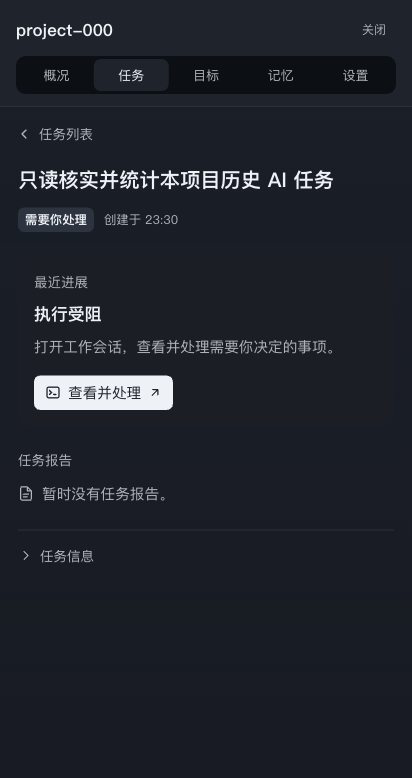
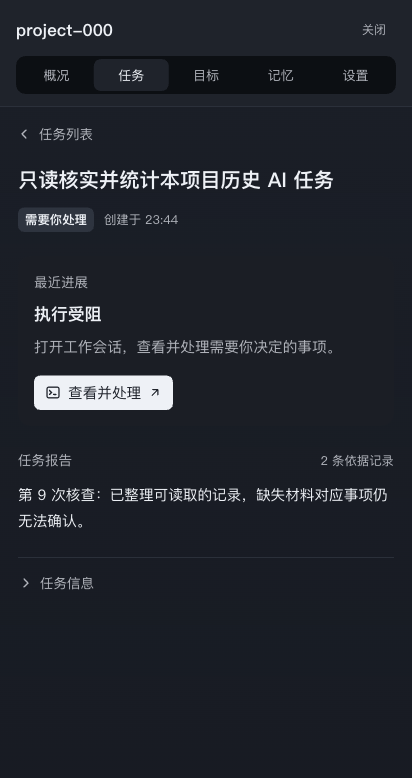
docs(design): verify live status and detail report presentation

diff --git a/playbook/v0.1.0/rc-task-detail.md b/playbook/v0.1.0/rc-task-detail.md
@@ -2,7 +2,7 @@
 
 创建时间：2026-10-05
 最后更新：2026-10-05
-状态：InReview（实现、本机、实机与推送完成；CI 触发状态待确认）
+状态：InReview（实现、本机、实机与推送完成；最终提交 CI 待完成）
 派单来源：负责人实测指出任务详情粗糙，原始字段和整行按钮抢占主界面。
 级别：C。分支：PeerAgent/pa/rc-task-detail；基线：开发线 7276b5e6。
 
@@ -21,6 +21,8 @@
 - apps/desktop/scripts/bot-shell-electron-smoke.mjs：在已有受控会话列表读取 seam 同步提供详情读取事实；原夹具只有列表而详情返回真实 NOT_FOUND，无法用于测试状态失效后的详情回退。只改隔离副本中的读投影替身，不改生产服务。
 
 不改 Runtime、协议、权限、Evidence、System Context、IPC、存储、依赖、版本或发布物。UI 图标全部复用 PeerIcon SVG。
+
+- 真实接口核对：列表投影没有报告，报告来自既有 `get(detail: report)`。详情由当前列表提供状态、同任务详情提供报告，状态变化时刷新报告；读取中、读取失败和已读空报告分开表达。任务切换不能混用报告，临时失败保留同任务此前报告并说明刷新失败；明确 NOT_FOUND 清除详情。
 
 ## 实现要点
 
@@ -53,9 +55,9 @@ RC7 任务详情的层级与操作修订，C 级。
 
 ### 分支与提交
 - 代码分支：PeerAgent/pa/rc-task-detail；基线：7276b5e6。
-- 提交：845be0f07fc027f0b25340fa7e73ae883e20a418。
+- 提交：bd06cda9ed717330ef416d2018978a3bbca4dcf5。
 - [代码 PR125](https://github.com/ly-ccx/Peer-Agent/pull/125)，目标 PeerAgent/dev/0.1.0。
-- 验收 tree：a34f252f8b6b47e5408185cb3f0efa080fb4e068，与提交 tree 一致。
+- 验收 tree：ca533c08e20236f0c80eb2fb048736dddc67fe08，与提交 tree 一致。
 
 ### 改了什么
 8 个文件，均在许可清单内：任务详情、纯显示投影及测试、详情样式、中英文文案、外层 Escape 让位、隔离原生夹具及交互检查。报告/依据不决定完成或签收；失效事实不保留旧的运行进展；内部引用原值保留，展示计数去重。
@@ -64,14 +66,16 @@ RC7 任务详情的层级与操作修订，C 级。
 实机复现了内层会话 Escape 连带关闭外层档案，扩入同一返回路径的两行修复。任务列表事实夹具原来没有相应详情读投影，补同源详情事实以测试失效回退。已在允许改动中记录，未移动运行时边界。返回门禁改为定位原任务行，避免新增隔离会话同时出现在历史分组时产生选择器歧义；未放宽旧检查。
 
 ### 验证
-- `node --test apps/desktop/renderer/src/project-agent/drawer/sessionDetailPresentation.test.ts`：新增 5/5 通过。覆盖所有状态中英文、报告不能改变签收、未知/失效事实、真实队列原因、缺失数据和引用去重。
+- `node --test apps/desktop/renderer/src/project-agent/drawer/sessionDetailPresentation.test.ts`：新增 7/7 通过。覆盖所有状态中英文、报告不能改变签收、未知/失效事实、真实队列原因、缺失数据和引用去重。
 - `pnpm --filter @peer-agent/desktop build`、`pnpm typecheck`、`pnpm architecture:check`、`git diff --check` 通过。
-- `pnpm --filter @peer-agent/desktop test`：5354 用例，5349 通过、5 个既有跳过、0 失败/取消；额外 i18n 检查 1/1 通过。
+- `pnpm --filter @peer-agent/desktop test`：5356 用例，5351 通过、5 个既有跳过、0 失败/取消；额外 i18n 检查 1/1 通过。
 - `pnpm --filter @peer-agent/desktop smoke:bots --streaming --accessibility --effort-stability --work-surfaces`：60 项壳/界面交互检查通过，0 页面错误、0 窗口授权错误；专属测试进程确认退出。
 - 新增实机检查：受阻/运行/待确认/签收/失败/取消/暂停/替代/启动/排队，事实读取失败、缺少会话、SVG 折叠与依据去重、键盘、同一会话打开、Escape/焦点恢复、返回原任务、深浅主题、760px 视口大字号、主操作悬停文字对比度至少 4.5:1。逐图复核发现初稿悬停引用了不存在的主题 token，已修复为 graphite-base-hover 并通过颜色门禁，最终图如上。
 - 本机材料：`$CODEX_HOME/visualizations/2026/10/05/rc-task-detail/`，含最终报告/trace/日志、截图、比较图与失败修正记录。原生报告 sourceDirty=true 如实保留（先验收再提交）；最终源 tree 与代码提交匹配。
-- GitHub 尚未产生本次 PR 的 CI 记录，正在确认触发状态；不把 PR124 的成功记录算作本次通过。
+- GitHub 已触发 PR CI；最终提交的双平台结果待完成，不把前一提交或 PR124 的成功记录算作本次通过。
 - 未验证真实模型、任务工具执行、复杂写任务的 Evidence 或全量读屏；受控认知和会话事实只用于验证界面、现有 IPC 入口、存储读取与导航。
+
+- 最后一次完整测试在依赖构建完成后顺序运行通过。此前误把 build 与测试同时启动，导致测试读取正在重建的 dist 而出现缺失 export；该文件隔离重跑 7/7 通过，完整重跑结果如上，未修改或跳过测试。
 
 ### 架构影响
 C 级。能力链、Runtime、协议、权限、Evidence、System Context、IPC、存储边界无变化；无新依赖或版本变更。
